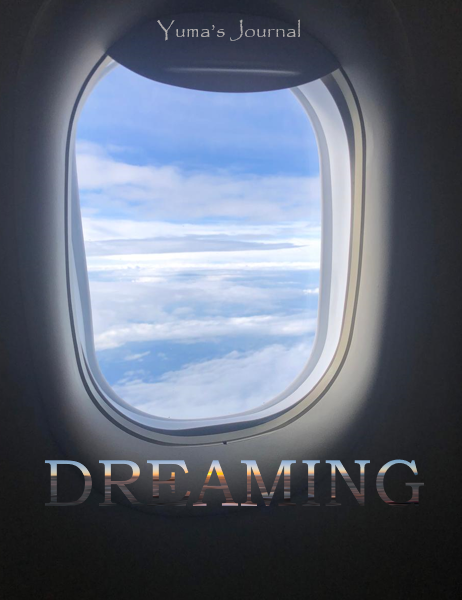
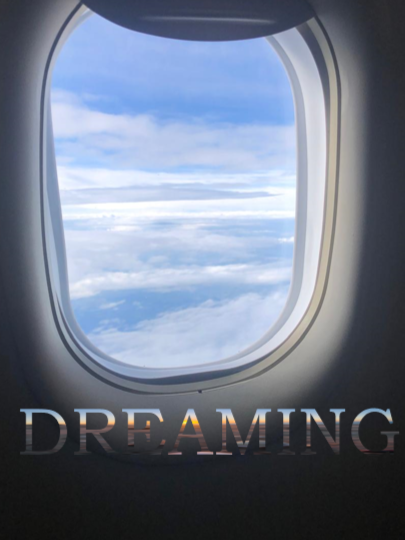
some photos optimized

diff --git a/site/index.html b/site/index.html
@@ -6,8 +6,9 @@
     <title>Just a Yuman - Yuma's Journal: Dreaming</title>
     <meta name="description" content="A site where readers can access the book, Yuma's Journal - Dreaming.">
     <meta name="author" content="Yuma Natalia Hanane">
-    <link rel="icon" href="data:,">
+    <link rel="icon" href="images/favicon.webp">
     <link rel="stylesheet" href="styles/site.css">
+    <link rel="stylesheet" href="styles/site-large.css">
     <link rel="preconnect" href="https://fonts.googleapis.com">
     <link rel="preconnect" href="https://fonts.gstatic.com" crossorigin>
     <link href="https://fonts.googleapis.com/css2?family=Crimson+Text:ital,wght@0,400;0,700;1,400&family=Open+Sans&display=swap" rel="stylesheet">
@@ -20,10 +21,8 @@
         <nav>
             <ul>
                 <li><a href="#">Home</a></li>
-                <li><a href="#">About</a></li>
                 <li><a href="#">The Book</a></li>
                 <li><a href="#">Contact Us</a></li>
-                <li><a href="#">Donate</a></li>
             </ul>
         </nav>
     </header>
@@ -33,7 +32,7 @@
             <p>by Yuma Natalia Hanane</p>
         </div>
         <section class="left">
-            <img src="images/book-cover.png" alt="The Book Cover">
+            <img src="images/book-cover.png" alt="The Book Cover" loading="lazy" width="360">
         <section class="right">
             <h3>Introduction</h3>
             <p>I first named this Meu Livro (Portuguese for My Book). I have always been very lazy to write, but for the first time I

diff --git a/site/styles/site.css b/site/styles/site.css
@@ -12,7 +12,8 @@ h1 {
     color: white;
     text-align: left;
     margin: 0 auto;
-    background-image: url(../images/stars-cropped.jpg);
+    /* background-color: rgb(247, 225, 228); */
+    background-image: url(../images/stars.webp);
     background-position: center;
     background-size: cover;
     padding: 2rem 8rem;
@@ -51,7 +52,7 @@ nav a:hover {
 }
 
 main {
-    background-image: url(../images/sky.jpg);
+    background-image: url(../images/sky.webp);
     background-position: center;
     background-size: cover;
 }
